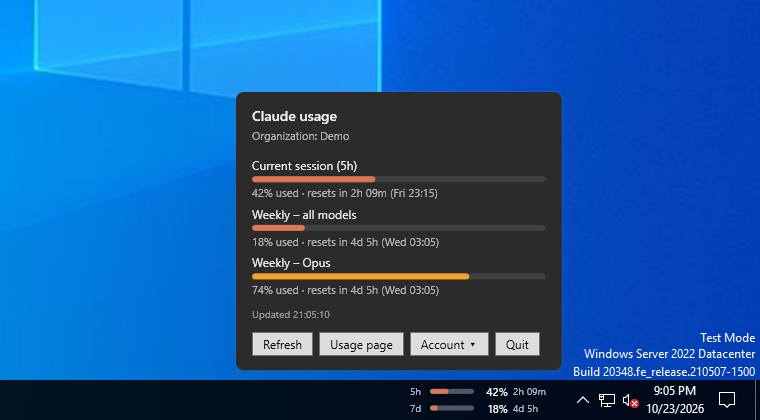
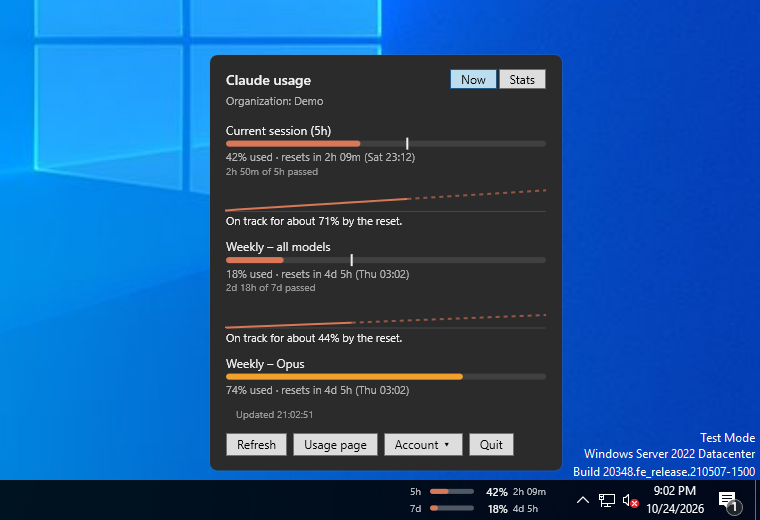
README: real screenshots of the Now tab (forecast) and the Stats tab
Claude-Session: https://claude.ai/code/session_013HHpwrpSSfeuThDzqtGJ99

diff --git a/README.md b/README.md
@@ -28,9 +28,13 @@ Not signed in yet:
 
 ![Windows 11 – signed out](docs/images/win11-signed-out.png)
 
-Details flyout (click the widget or a tray icon):
+Details flyout (click the widget or a tray icon) with pace marker, trend and forecast:
 
 ![Windows 11 – details](docs/images/win11-flyout.png)
+
+Stats tab (14 days / month / year, heat map, records):
+
+![Windows 11 – stats](docs/images/win11-stats.png)
 
 ### Windows 10
 
@@ -41,6 +45,8 @@ Details flyout (click the widget or a tray icon):
 ![Windows 10 – signed out](docs/images/win10-signed-out.png)
 
 ![Windows 10 – details](docs/images/win10-flyout.png)
+
+![Windows 10 – stats](docs/images/win10-stats.png)
 
 ### Tray icons and notifications (rendered previews)
 
